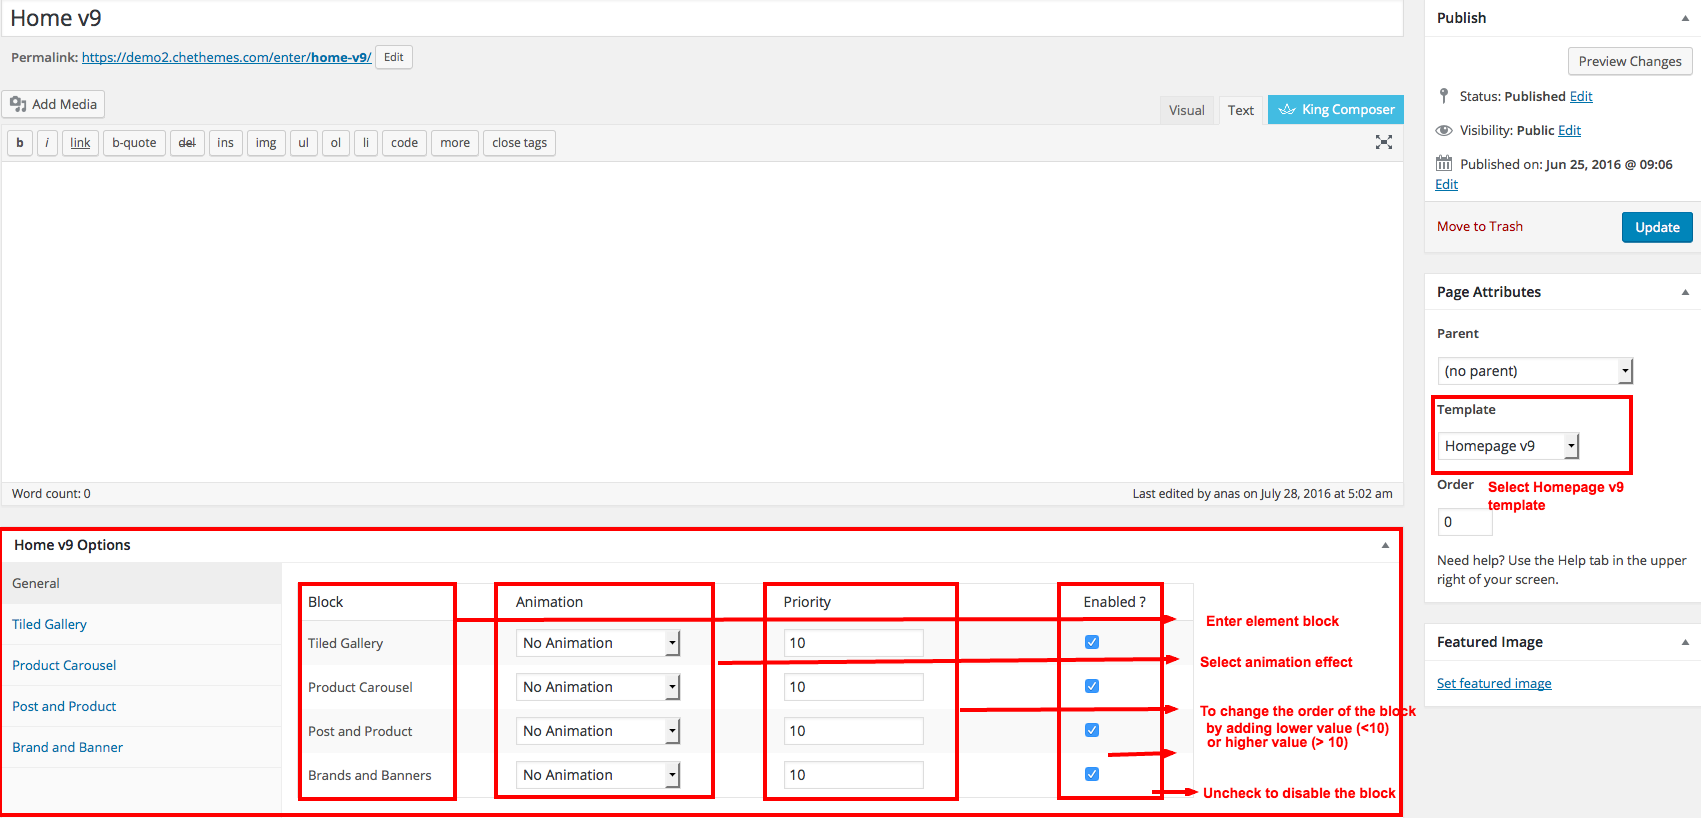
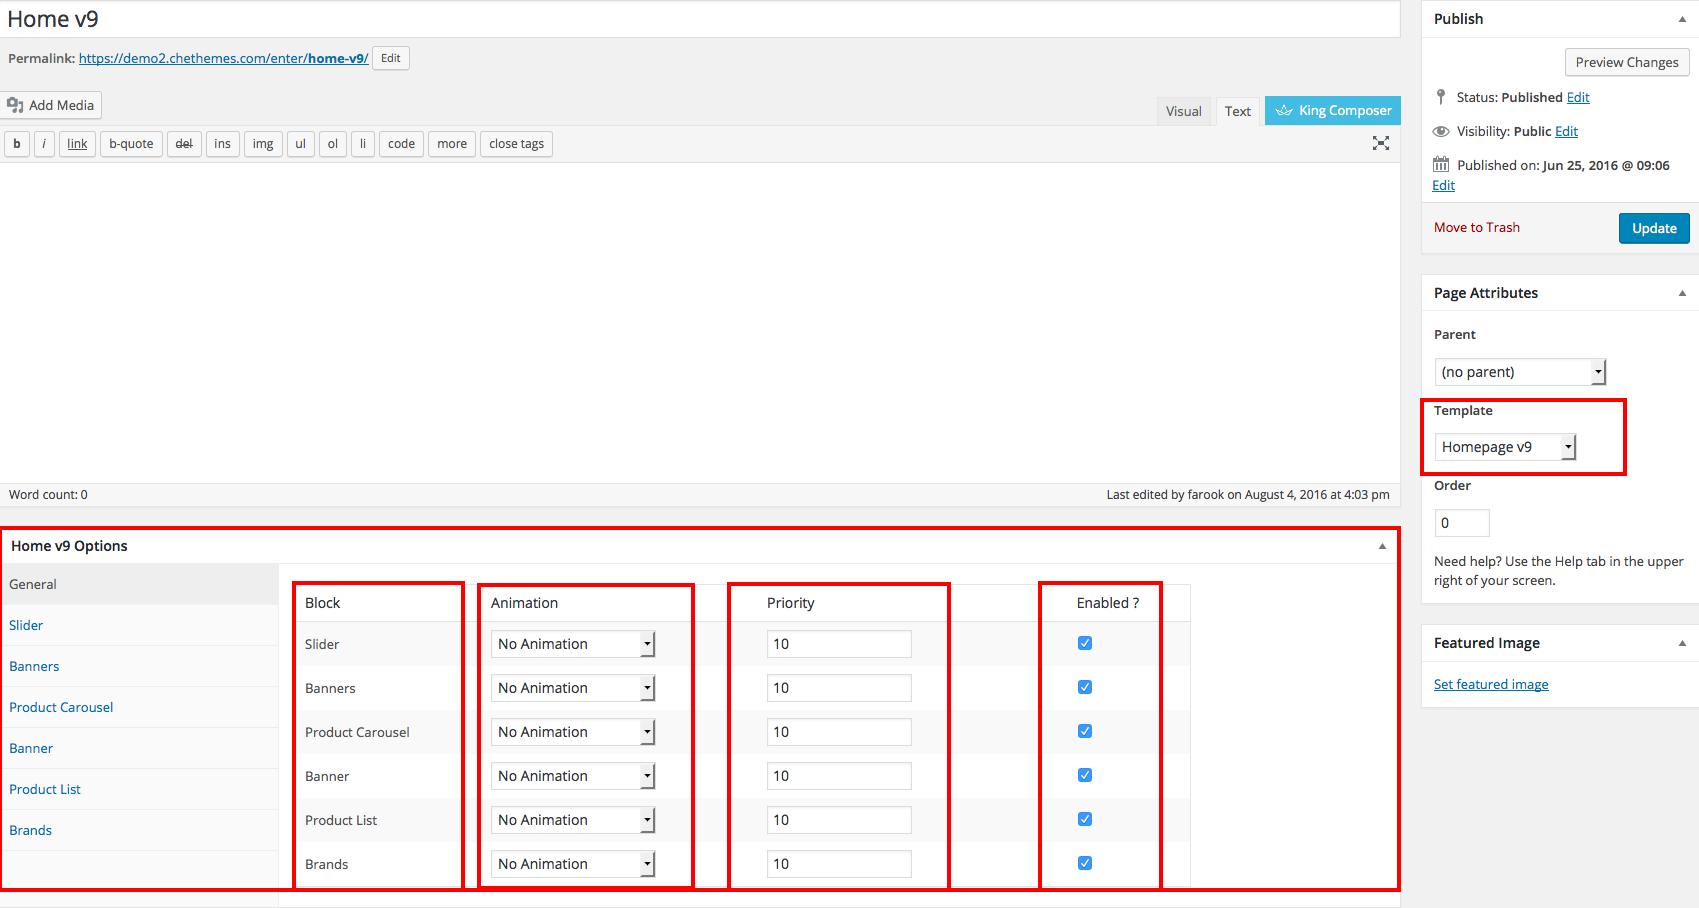
homev9 page changes

diff --git a/gitbook/enter/setup/home_v9_with_king_composer.md b/gitbook/enter/setup/home_v9_with_king_composer.md
@@ -1,6 +1,6 @@
 # Home v9 with King Composer
 
-Home v9 of Enter is built using **King Composer**.It has 4 rows. The **King Composer** Backend editor of the page look like this
+Home v9 of Enter is built using **King Composer**.It has 6 rows. The **King Composer** Backend editor of the page look like this
 
 ![](http://transvelo.github.io/docs/enter/images/kc-homev9-setting.png)
 
@@ -9,42 +9,44 @@ Home v9 of Enter is built using **King Composer**.It has 4 rows. The **King Comp
 
 ### Row 1
 ---
-* Tiled gallery Setting : Here i pasted a Tiled gallery Setting Page image.
+* **Slider** Setting : Here i pasted a Slider Setting Page image.
 
-![](http://transvelo.github.io/docs/enter/images/kc-tiled-gallery-setting.png)
-
+![](http://transvelo.github.io/docs/enter/images/kc-slider-setting.png)
 
 ### Row 2
 ---
-* It has Product Carousel setting
-* Product Carousel : Here i pasted a Product Carousel setting Page image.
+* It has two columns in the ratio 50% + 50%.
+* Both the columns has Banners setting
+* **Banners** : Here i pasted a Banners setting Page image.
 
-![](http://transvelo.github.io/docs/enter/images/kc-products-carousel-setting.png)
+![](http://transvelo.github.io/docs/enter/images/kc-banner-setting.png)
 
 ### Row 3
 ---
-* Row 3 has two columns in the ratio 6/12 + 6/12.
-* Column 1 has Post Carousel setting
-* Post Carousel : Here i pasted a Post Carousel setting Page image.
-
-![](http://transvelo.github.io/docs/enter/images/kc-post-carousel-setting.png)
-
-* Column 2 has Products Carousel setting
-* Products Carousel : Here i pasted a Products Carousel setting Page image.
+* It has Product Carousel setting
+* **Product Carousel** : Here i pasted a Product Carousel setting Page image.
 
 ![](http://transvelo.github.io/docs/enter/images/kc-products-carousel-setting.png)
 
-
 ### Row 4
 ---
-* Row 4 has two columns in the ratio 6/12 + 6/12.
-* Column 1 has Brands setting
-* Brands : Here i pasted a Brands setting Page image.
-
-![](http://transvelo.github.io/docs/enter/images/kc-brands-carousel-setting.png)
-
-* Column 2 has Banner setting
-* Banner : Here i pasted a Banner setting Page image.
+* It has Banner setting
+* **Banner** : Here i pasted a Banner setting Page image.
 
 ![](http://transvelo.github.io/docs/enter/images/kc-banner-setting.png)
+
+
+### Row 5
+---
+* It has Product List setting
+* **Product List** : Here i pasted a Product List setting Page image.
+
+![](http://transvelo.github.io/docs/enter/images/kc-products-cards-carousel-setting.png)
+
+### Row 6
+---
+* It has Brands setting
+* **Brands** : Here i pasted a Brands setting Page image.
+
+![](http://transvelo.github.io/docs/enter/images/kc-brands-carousel-setting.png)
 

diff --git a/gitbook/enter/setup/advanced_megamenu_dropdown.md b/gitbook/enter/setup/advanced_megamenu_dropdown.md
@@ -18,7 +18,7 @@ We built our simple Megamenu in previous section. We are now going to build a li
 * Our Complex Megamenu item will now have 4 columns.
 * On the top-right of each row, you will find a grid icon, next to the Publish/ Unpublish icon.
 * Click on the grid icon and it will expand to various grid option available.
-* We will select a predefined grid which is 1/4 + 1/4 + 1/4 + 1/4.
+* We will select a predefined grid which is 25% + 25% + 25% + 25%.
 * Once you click on the predefined grid layout it will look like this :<br/>![](http://transvelo.github.io/docs/enter/images/kc-four-col-grid-on-selection.png)
 
 
@@ -29,17 +29,17 @@ We built our simple Megamenu in previous section. We are now going to build a li
 
 #### Row 1 has 4 columns.
 * Column 1 - Click on the **Add Element** button. It should popup **Add Element** button. Let us add **Custom Menu** widget under **Widgets**. I have already created a menu (via **Appearance > Menus**).
- * **Widget Title** : Clothes
- * **Select Menu** : Megamenu 1 ( name of the menu created already)
+ * **Widget Title** : Shop
+ * **Select Menu** : mega-menu-1  ( name of the menu created already)
 * Column 2 -  Click on the **Add Element** button. It should popup **Add Element** button. Let us add **Custom Menu** widget under **Widgets**. I have already created a menu (via **Appearance > Menus**).
- * **Widget Title** :
- * **Select Menu** : Megamenu 2 ( name of the menu created already)
+ * **Widget Title** : Shop Columns
+ * **Select Menu** : mega-menu-2 ( name of the menu created already)
 * Column 3 -  Click on the **Add Element** button. It should popup **Add Element** button. Let us add **Custom Menu** widget under **Widgets**. I have already created a menu (via **Appearance > Menus**).
- * **Widget Title** :
- * **Select Menu** : Megamenu 3 ( name of the menu created already)
+ * **Widget Title** : Blog
+ * **Select Menu** : mega-menu-3 ( name of the menu created already)
 * Column 4 -  Click on the **Add Element** button. It should popup **Add Element** button. Let us add **Custom Menu** widget under **Widgets**. I have already created a menu (via **Appearance > Menus**).
- * **Widget Title** :
- * **Select Menu** : Megamenu 4 ( name of the menu created already)
+ * **Widget Title** : Others
+ * **Select Menu** : mega-menu-4 ( name of the menu created already)
 
 ### 3. How does the Grid look after populating ?
 

diff --git a/gitbook/enter/setup/home_v9.md b/gitbook/enter/setup/home_v9.md
@@ -1,6 +1,6 @@
 # Home v9
 
-Home v9 of Enter is built using **Homepage v9**.It has 4 rows. The **Homepage v9** Backend editor of the page look like this
+Home v9 of Enter is built using **Homepage v9**.It has 6 rows. The **Homepage v9** Backend editor of the page look like this
 
 ![](http://transvelo.github.io/docs/enter/images/home-v9-setting.png)
 
@@ -33,12 +33,19 @@ Home v9 of Enter is built using **Homepage v9**.It has 4 rows. The **Homepage v9
 
 ### Row 1
 ---
-* It has Tiled Gallery element.
-* **Tiled Gallery Setting** : Here is the screenshot for Tiled Gallery setting
+* It has Slider element.
+* **Slider Setting** : Here is the screenshot for Slider setting
 
-![](http://transvelo.github.io/docs/enter/images/home9-tiled-gallery-setting.png)
+![](http://transvelo.github.io/docs/enter/images/home9-slider-setting.png)
 
 ### Row 2
+---
+* It has Banners element.
+* **Banners Settings** : Here is the screenshot for Banners setting
+
+![](http://transvelo.github.io/docs/enter/images/home9-banners-setting.png)
+
+### Row 3
 ---
 * It has Product Carousel element.
 * **Product Carousel Settings** : Here is the screenshot for Product Carousel setting
@@ -46,19 +53,24 @@ Home v9 of Enter is built using **Homepage v9**.It has 4 rows. The **Homepage v9
 ![](http://transvelo.github.io/docs/enter/images/product-carousel-setting.png)
 
 
-### Row 3
----
-* It has Post and Product element.
-* **Post and Product Settings** : Here is the screenshot for Post and Product setting
-
-![](http://transvelo.github.io/docs/enter/images/home9-post-product-setting.png)
-
 ### Row 4
 ---
-* It has Brand and Banner element.
-* **Brand and Banner Settings** : Here is the screenshot for Brand and Banner setting
+* It has Banner element.
+* **Banner Settings** : Here is the screenshot for Banner setting
 
-![](http://transvelo.github.io/docs/enter/images/home9-brand-banner-setting.png)
+![](http://transvelo.github.io/docs/enter/images/home9-banner-setting.png)
+
+### Row 5
+---
+* It has Product List element.
+* **Product List Settings** : Here is the screenshot for Product List setting
+
+![](http://transvelo.github.io/docs/enter/images/home9-product-list-setting.png)
 
 
+### Row 6
+---
+* It has Brands element.
+* **Brands Settings** : Here is the screenshot for Brands setting
 
+![](http://transvelo.github.io/docs/enter/images/home9-brands-setting.png)

diff --git a/gitbook/enter/king_composer/README.md b/gitbook/enter/king_composer/README.md
@@ -1,10 +1,10 @@
 # King Composer
 
-**King Composer**  is the most professional WordPress page builder plugin it comes bundled with the theme. It provides 40+ elements that can be easily added to your page. In addition to extending functionalities of existing elements, **Enter** theme has added 12 additional elements. With this set of elements, you will be able to create unlimited varities of pages.
+**King Composer**  is the most professional WordPress page builder plugin it comes bundled with the theme. It provides 40+ elements that can be easily added to your page. In addition to extending functionalities of existing elements, **Enter** theme has added 14 additional elements. With this set of elements, you will be able to create unlimited varities of pages.
 
 ## Enter Elements
 
-There are 15 additional elements that are made available via **Enter Extensions** plugin.They are :
+There are 14 additional elements that are made available via **Enter Extensions** plugin.They are :
 
 1. [Ad Block](ad_block.md)
 2. [Banner Fullwidth](banner_fullwidth.md)
@@ -18,8 +18,7 @@ There are 15 additional elements that are made available via **Enter Extensions*
 10.[Products Cards Carousel](products_cards_carousel.md)
 11.[Products Carousel](products_carousel.md)
 12.[Quote Carousel](quote_carousel.md)
-13.[Tiled Gallery](tiled_gallery.md)
-14.[Tiled Product categories](tiled_product_categories.md)
+13.[Tiled Product categories](tiled_product_categories.md)
 14.[Revolutions Slider](revolution_slider.md)
 
 

diff --git a/gitbook/enter/SUMMARY.md b/gitbook/enter/SUMMARY.md
@@ -71,7 +71,6 @@
    * [Products Carousel](king_composer/products_carousel.md)
    * [Quote Carousel](king_composer/quote_carousel.md)
    * [Revolution Slider](king_composer/revolution_slider.md)
-   * [Tiled Gallery](king_composer/tiled_gallery.md)
    * [Tiled Product categories](king_composer/tiled_product_categories.md)
 * [Credits](credits/README.md)
 * [FAQ](faq/README.md)
